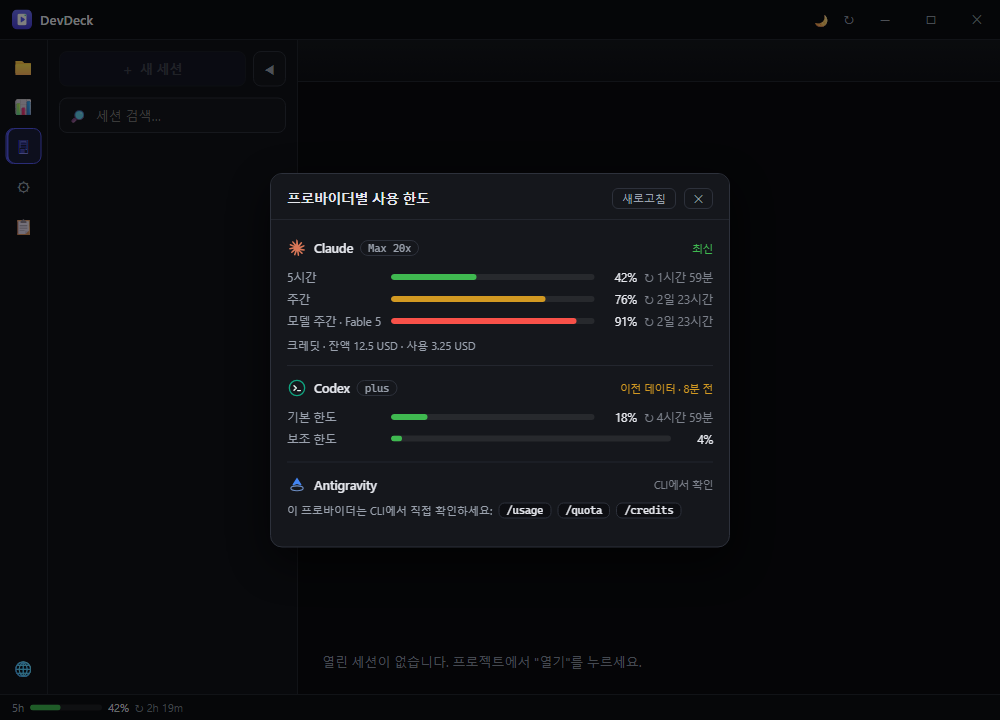
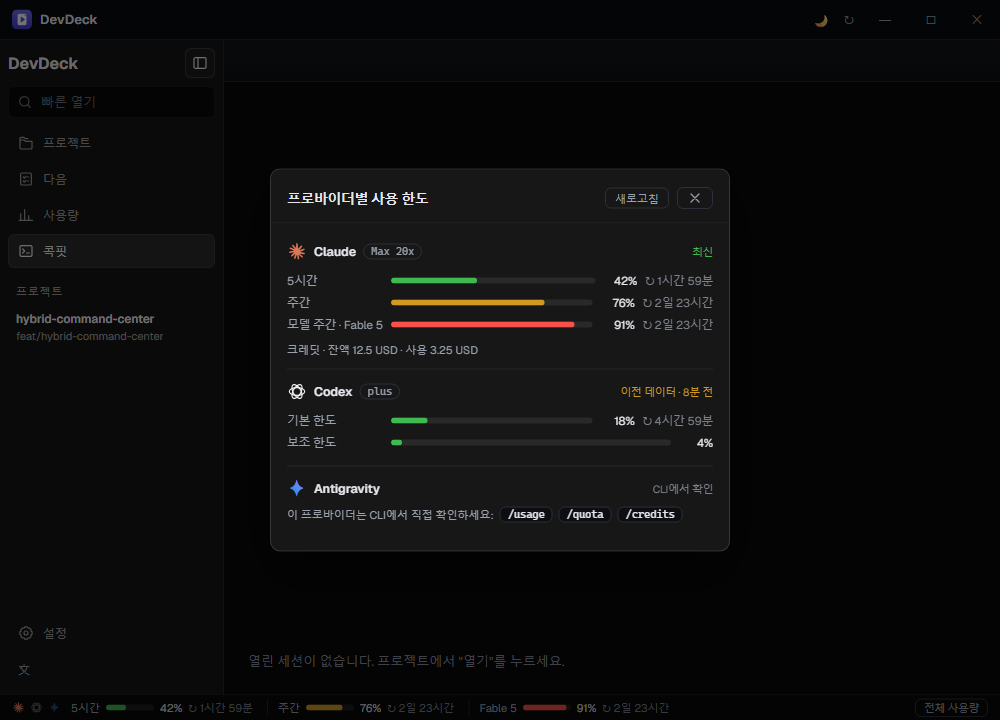
test: verify command center redesign

diff --git a/src/renderer/shell.ts b/src/renderer/shell.ts
@@ -47,6 +47,16 @@ export function mountShell(options: {
   const projectHost = document.getElementById('shell-projects')!;
   let sessions: ShellSessionInput[] = [];
   let projects: ShellProjectInput[] = [];
+  let activeEntityKey = '';
+
+  const markActiveEntity = (row: HTMLButtonElement, key: string): void => {
+    activeEntityKey = key;
+    for (const item of Array.from(sidebar.querySelectorAll<HTMLButtonElement>('.shell-entity'))) {
+      const active = item === row;
+      item.classList.toggle('selected', active);
+      if (active) item.setAttribute('aria-current', 'true'); else item.removeAttribute('aria-current');
+    }
+  };
 
   for (const button of Array.from(document.querySelectorAll<HTMLButtonElement>('.rail-item[data-view]'))) {
     const view = button.dataset.view as ViewId;
@@ -71,12 +81,15 @@ export function mountShell(options: {
       section.appendChild(heading);
       for (const item of group.items) {
         const row = document.createElement('button'); row.type = 'button'; row.className = `shell-entity shell-session activity-${item.activity}`;
+        const key = `session:${item.id}`;
         const signal = document.createElement('span'); signal.className = 'shell-signal'; signal.setAttribute('aria-hidden', 'true');
         const copy = document.createElement('span'); copy.className = 'shell-entity-copy';
         const label = document.createElement('strong'); label.textContent = item.label;
         const detail = document.createElement('small'); detail.textContent = item.detail;
         copy.append(label, detail); row.append(signal, copy);
-        row.addEventListener('click', () => options.onSession(item.id));
+        row.classList.toggle('selected', activeEntityKey === key);
+        if (activeEntityKey === key) row.setAttribute('aria-current', 'true');
+        row.addEventListener('click', () => { markActiveEntity(row, key); options.onSession(item.id); });
         section.appendChild(row);
       }
       sessionHost.appendChild(section);
@@ -87,11 +100,14 @@ export function mountShell(options: {
     projectHost.replaceChildren();
     for (const item of items) {
       const row = document.createElement('button'); row.type = 'button'; row.className = 'shell-entity shell-project';
+      const key = `project:${item.path}`;
       const copy = document.createElement('span'); copy.className = 'shell-entity-copy';
       const label = document.createElement('strong'); label.textContent = item.name;
       const detail = document.createElement('small'); detail.textContent = item.branch ?? '—';
       copy.append(label, detail); row.appendChild(copy);
-      row.addEventListener('click', () => options.onProject(item.path));
+      row.classList.toggle('selected', activeEntityKey === key);
+      if (activeEntityKey === key) row.setAttribute('aria-current', 'true');
+      row.addEventListener('click', () => { markActiveEntity(row, key); options.onProject(item.path); });
       projectHost.appendChild(row);
     }
   };

diff --git a/src/renderer/main.ts b/src/renderer/main.ts
@@ -217,19 +217,44 @@ async function boot(): Promise<void> {
     },
   });
   shellController.setCockpitAvailable(cockpitOn);
+  let savedContext: unknown = null;
+  try { savedContext = JSON.parse(localStorage.getItem(SHELL_CONTEXT_KEY) ?? 'null'); } catch { localStorage.removeItem(SHELL_CONTEXT_KEY); }
+  let pendingContext: unknown = savedContext;
+  let availableProjectPaths = new Set<string>();
+  let availableSessionIds = new Set<string>();
+  const attemptContextRestore = (): void => {
+    if (pendingContext == null) return;
+    const restored = restoreShellContext(pendingContext, availableProjectPaths, availableSessionIds);
+    const requestedKind = typeof pendingContext === 'object' && pendingContext !== null && 'kind' in pendingContext
+      ? (pendingContext as { kind?: unknown }).kind : null;
+    if (requestedKind === 'project' && restored.kind === 'project') {
+      nav.show('projects'); focusProject(restored.path);
+      localStorage.setItem(SHELL_CONTEXT_KEY, JSON.stringify(restored)); pendingContext = null;
+    } else if (requestedKind === 'session' && restored.kind === 'session' && cockpitOn) {
+      nav.show('cockpit'); activateCockpitSession(restored.id);
+      localStorage.setItem(SHELL_CONTEXT_KEY, JSON.stringify(restored)); pendingContext = null;
+    } else if (requestedKind === 'view' && restored.kind === 'view') {
+      nav.show(restored.id); pendingContext = null;
+    } else if (requestedKind === 'session' && !cockpitOn) {
+      nav.show('projects'); pendingContext = null;
+    }
+  };
   if (cockpitOn) {
-    onCockpitNavigationChange((items) => shellController?.setSessionGroups([...items]));
+    onCockpitNavigationChange((items) => {
+      shellController?.setSessionGroups([...items]);
+      availableSessionIds = new Set(items.map((item) => item.id));
+      attemptContextRestore();
+    });
     shellController.setSessionGroups(cockpitNavigationItems());
   }
   const syncShellProjects = (items: readonly import('../shared/types').ProjectViewModel[]): void => {
     shellController?.setProjects(items.filter((item) => !item.hidden).map(({ path, name, branch }) => ({ path, name, branch })));
+    availableProjectPaths = new Set(items.map((item) => item.path));
+    attemptContextRestore();
   };
   onProjectsChanged(syncShellProjects);
   syncShellProjects(currentProjects());
-  let saved: unknown = null;
-  try { saved = JSON.parse(localStorage.getItem(SHELL_CONTEXT_KEY) ?? 'null'); } catch { localStorage.removeItem(SHELL_CONTEXT_KEY); }
-  const restored = restoreShellContext(saved, new Set(), new Set());
-  if (restored.kind === 'view') nav.show(restored.id);
+  attemptContextRestore();
 
   const agentSel = document.getElementById('agent-select') as HTMLSelectElement;
   if (agents.length > 1) {

diff --git a/src/renderer/styles.css b/src/renderer/styles.css
@@ -44,11 +44,6 @@ body {
 .winbtn-close:hover { background: var(--bad); color: #fff; }
 
 #shell { display: flex; flex: 1; min-height: 0; }
-#rail { width: 48px; flex: 0 0 48px; display: flex; flex-direction: column; align-items: center; gap: 4px; padding: 8px 0; background: #101218; border-right: 1px solid var(--border); }
-.rail-item { width: 36px; height: 36px; display: flex; align-items: center; justify-content: center; background: transparent; border: 1px solid transparent; border-radius: 8px; font-size: 16px; color: var(--text-dim); cursor: pointer; }
-.rail-item:hover { background: var(--surface-hover); color: var(--text); }
-.rail-item.active { background: #1b1e3a; border-color: var(--accent); color: var(--accent-hover); box-shadow: inset 2px 0 0 var(--accent); }
-.rail-spacer { flex: 1; }
 
 #content { flex: 1; overflow-y: auto; }
 .view { display: none; }

diff --git a/src/renderer/shell/shell.css b/src/renderer/shell/shell.css
@@ -42,6 +42,7 @@
 }
 .shell-entity { padding: 7px 8px; }
 .shell-entity:hover, .shell-quick-result:hover { background: var(--dd-surface-raised); }
+.shell-entity.selected { background: var(--dd-surface-selected); box-shadow: inset 2px 0 0 var(--dd-working); }
 .shell-entity-copy { min-width: 0; display: flex; flex-direction: column; gap: 2px; }
 .shell-entity-copy strong, .shell-entity-copy small { overflow: hidden; text-overflow: ellipsis; white-space: nowrap; }
 .shell-entity-copy strong { font-weight: 550; }

diff --git a/src/renderer/features/projects/projects.css b/src/renderer/features/projects/projects.css
@@ -77,7 +77,7 @@
   gap: 6px;
 }
 
-@media (max-width: 980px) {
+@media (max-width: 1200px) {
   #view-projects .prow {
     grid-template-columns: 20px 10px minmax(130px, .8fr) minmax(180px, 1.3fr) auto;
   }

diff --git a/README.md b/README.md
@@ -4,84 +4,83 @@
 
 # DevDeck
 
-**A command deck for everyone juggling a pile of Claude Code, Codex & Antigravity projects.**
+**A local-first command center for Claude Code, Codex, and Antigravity projects.**
 
-See every repo's state at a glance — git status, how long it's been neglected, your Claude Code, Codex, and Antigravity session history — and jump back in with one click (`claude -c` / `codex resume --last` / `agy -c`).
+See every repository, live agent session, next task, local usage estimate, and resume cue in one stable workspace.
 
 ![License](https://img.shields.io/badge/license-MIT-blue)
 ![Platform](https://img.shields.io/badge/platform-Windows%20%7C%20macOS%20%7C%20Linux-0078D6)
 ![Built with Electron](https://img.shields.io/badge/Electron-43-47848F)
-![Tests](https://img.shields.io/badge/tests-847%20passing-3fb950)
+![Tests](https://img.shields.io/badge/tests-857%20passing-3fb950)
 ![CI](https://github.com/writingdeveloper/devdeck/actions/workflows/ci.yml/badge.svg)
-
-<img src="docs/demo/demo.gif" width="820" alt="DevDeck demo" />
 
 </div>
 
-## Why
+## What DevDeck solves
 
-If you run Claude Code across a dozen side projects, you lose the thread: *Which repos have uncommitted work? Which have I not touched in weeks? What was I even doing in that one?* DevDeck is a always-on desktop deck that answers those at a glance and gets you back into a session in one click — without touching your code or files.
+AI coding work gets fragmented quickly: one repository is waiting for a response, another has uncommitted work, and a third has a conversation you meant to resume. DevDeck keeps those contexts together without uploading your project or transcript data.
 
-## Features
+The interface is organized as one command center:
 
-- **🗂 Project deck** — every git repo under your scan locations as a card: branch, uncommitted count, last commit, AI session count.
-- **➕ New project** — spin up a project without leaving the deck: pick a scan location, name it, and DevDeck creates the folder, runs `git init`, and opens it in a terminal with your active agent.
-- **🤖 Multi-agent (Claude Code, Codex & Antigravity)** — every project and task has a provider-aware split **Open** control. The primary action uses the selected AI: it focuses that AI's live session, continues its latest conversation, or starts one when no history exists. Open the adjacent menu to choose another installed AI, or use its **+ New session** action to always start a separate conversation. A toolbar switcher sets the default AI.
-- **📂 Multiple scan locations** — point DevDeck at several folders to scan for repos, or add individual repos that live anywhere; each is auto-detected.
-- **🚦 Staleness traffic-light** — fresh / warning / neglected, so dirty or abandoned repos surface themselves.
-- **📡 Status pulse** — the toolbar shows live ⚠ needs-you / ◉ working counts across every open cockpit session, plus today's estimated cost; click a count to filter the deck down to just those projects.
-- **▶ Predictable resume** — generic project and task actions always honor the AI you choose (`claude -c` / `codex resume --last` / `agy -c`); they never redirect to whichever provider happened to open the project before. A specific historical conversation remains pinned to its original provider so it can be resumed safely.
-- **🖥 Cockpit (embedded terminals · Windows)** — on Windows, **Open** drops you straight into an in-app terminal instead of a pile of external windows. A searchable sidebar is **grouped by urgency** — needing-you and working sessions float above a dedicated **📌 pinned** group, with quieter turn/idle sessions below — and carries a count badge on the 🖥 icon (and an optional **tray icon alert**, off-by-default-able) so you can see "who's waiting on me" from any view. Each session shows its **model, active working time, and a per-session 🧠 context % that colors up as it nears the limit** — for Codex sessions the model and the model's *real* context window are read straight from the rollout, so the percentage is exact rather than measured against a setting — and you can **name** sessions, **pin** the ones you care about most, and run **several per repo**. Every row also carries a **💬 one-line summary of what that session is actually working on**, re-derived from its transcript each time the agent finishes a turn — its in-progress task, the headline of the last reply, or the files it just edited — so a session you have had open for days stays labeled without renaming it by hand. It works for **Claude Code and Codex** sessions alike (Codex rollouts are read from a bounded tail, so even a multi-GB one costs milliseconds). Prefer a real summary? Turn on **AI refinement** in Settings and each finished turn is condensed by **that session's own agent CLI** — a Claude session by `claude`, a Codex session by `codex` — so one vendor's quota is never spent on another's work, and the feature works whichever agent you installed (off by default, since it does spend usage). Each row carries its **provider mark** (Claude / Codex / Antigravity) in a fixed column and clamps long names (one line while the summary is shown) with the full name on hover or keyboard focus, so the 250px sidebar never has to grow. A session always **restores, restarts, and forks under the provider it was opened with**, whatever the global agent selection is now. The live agent terminal + branch · agent status bar fill the right, with selection **copy (Ctrl+C) / paste (Ctrl+V)** that doesn't clash with the agent's own Ctrl+C interrupt, and clicking an **image path printed in the output** (a screenshot a test just wrote, say) opens it straight in your OS viewer. Running 10+ projects no longer means a wall of shrinking tabs you have to click through to see which finished. Your open sessions are **remembered across restarts** — after a quit or crash the cockpit lists them as one-click **restorable** entries (re-attaching each to its own conversation, pins included). You can run **several sessions in the same repo at once** — a **+ New session** button forks another conversation; each is tracked separately and you can **name it** (double-click the name) so you remember what each one is doing. (macOS/Linux keep opening your external terminal.)
-- **↩ Resume cue** — auto-reads the *last thing you asked* in each project's newest session (Claude Code, Codex, or Antigravity) and shows it in the note slot, so "where was I?" needs no typing. Click to adopt it as your note.
-- **◷ Project Memory + resume snapshot** — open Memory from any project card or compact row to reconstruct where you stopped: the newest provider-owned conversation point, current branch/working tree, recent commits, next tasks, and project note appear above one bounded timeline of Claude, Codex, Antigravity, Git, task, and recent-open activity. It is calculated only when requested from local files, makes no AI or network call, and leaves the normal one-click **Open** path unchanged.
-- **☑ Per-project tasks + deadlines** — every project holds its own checklist with optional due dates; deck cards show a compact `☑ done/total` badge (with an overdue count in red) that jumps straight to the board.
-- **📋 "Next" task board** — all open tasks across every project on one board, grouped **overdue / today / this week / later / no date**: check them off, edit inline, set due dates, or add a task to any project without leaving the view. Switch to a **calendar view** to see due dates laid out across the month.
-- **↑ Unpushed signal** — commits ahead of your remote, flagged on the card so unprotected work stands out.
-- **{ } Open in editor** (VS Code) and **📁 open folder** straight from a card; the deck **auto-refreshes in place** while it's open — only the cards that changed update, so there's no flicker as you work.
-- **🐙 Jump to GitHub** — projects with a `github.com` remote show a GitHub icon; click it to open the repo page in your browser.
-- **📝 Per-project notes** — jot your next todo; it sticks with the card.
-- **📊 Claude Code + Codex local analytics** — one page shows **combined, Claude, and Codex API-equivalent estimated costs** side by side, then lets you filter token, model, daily, and per-project details by provider. History is parsed locally from `~/.claude` and `~/.codex`; searches and deleted-project totals remain available. These public-rate estimates are not subscription bills. Antigravity is excluded from local cost analytics because it does not expose stable local model/token cost data.
-- **📉 Live limits, all providers** — a one-line footer shows the single most urgent limit across every installed provider; **All usage** opens a dialog with each provider's own windows. **Claude Code:** 5-hour, weekly, any **model-scoped weekly quota** the API reports (rendered from the server's own model name — nothing is hardcoded), plan, and **Usage Credits** when present. **Codex:** primary/secondary rate-limit windows read through the installed official `codex app-server` (it owns its own auth; DevDeck never reads or exports Codex credentials). **Antigravity:** no supported programmatic quota read exists, so DevDeck shows the documented `/usage`, `/quota`, and `/credits` commands with a copy button instead of guessing. A provider that fails keeps its last-good numbers, labelled how old they are, and never blanks the others.
-- **📌 Pin / 🙈 hide / 🔎 search / sort** — keep the deck focused.
-- **☰ Card / list view** — toggle a dense list view — a compact status-board grid, one row per project — to scan many repos at a glance; your choice is remembered.
-- **🌐 4 languages** — English, 한국어, 日本語, 中文.
-- **⬆ Auto-update** — checks GitHub Releases on launch and offers an in-app, user-confirmed download + restart (Windows/Linux; macOS pending code-signing).
-- **🚀 Start on Windows login** — optionally launch DevDeck when you sign in (Windows only; opt-in in Settings).
-- **🔒 Local-first** — reads your local agent data and git, and the renderer sends nothing anywhere (`connect-src 'none'`). Outbound calls only ever go to first-party endpoints: the GitHub update check, and — when you're signed into Claude Code — a usage check to `api.anthropic.com` (the same endpoint Claude Code itself uses). Codex limits come from the locally installed official `codex app-server`, which performs its own first-party request; Antigravity makes **no** usage request at all. Credentials never cross IPC — the Claude OAuth token stays in the main process, Codex credentials are never read by DevDeck, and only normalized plan/percent/reset/state values reach the UI. If you're not signed in, no usage call is made. No account, no telemetry.
-- System tray + global shortcut (`Ctrl+Alt+D`), frameless Discord-style title bar.
+- An expanded 224px sidebar contains Quick Open, primary views, urgency-grouped live sessions, and compact projects.
+- The sidebar collapses to 52px when terminal width matters.
+- The main project overview defaults to a row-first status board; cards remain optional.
+- Selecting a session focuses its existing embedded terminal without respawning or remounting it.
+- Project Memory opens as a right-side drawer, or a full-width sheet on narrow windows.
+
+<div align="center">
+<img src="docs/screenshots/projects.png" width="820" alt="DevDeck row-first project command center" />
+</div>
+
+## Highlights
+
+- **Unified project and session navigation** — Needs You and Working sessions stay visible from Projects, Tasks, Usage, and Settings. Quick Open filters both sessions and projects.
+- **Row-first project overview** — resume cues lead each row; branch, working-tree state, providers, sessions, cost, tasks, GitHub, editor, folder, and provider-aware Open remain available.
+- **Provider-aware Open** — focus a live session, continue the correct provider-owned conversation, start a fresh session, or explicitly choose another installed provider.
+- **Cockpit on Windows** — embedded Claude Code, Codex, and Antigravity terminals with persistence, restart, fork, rename, pin, close confirmation, search, clipboard handling, clickable links and image paths, context percentage, and summaries.
+- **External terminals on macOS and Linux** — the same project actions launch supported native terminal applications.
+- **Project Memory** — an on-demand local snapshot of the latest conversation, Git state, recent commits, tasks, notes, and activity timeline. It makes no AI or network call.
+- **Cross-project Tasks** — add, edit, complete, schedule, filter, and view tasks as a list or calendar.
+- **Local usage analytics** — combined Claude Code and Codex token and API-equivalent cost estimates, provider filters, model/day/project breakdowns, and deleted-project history.
+- **Live provider limits** — a fixed 26px footer summarizes the most urgent supported limit; the dialog keeps each provider independent and preserves last-good data.
+- **Repository signals** — uncommitted files, unpushed commits, staleness, session history, resume cues, notes, pin/hide, GitHub, editor, and folder actions.
+- **Four languages** — English, 한국어, 日本語, 中文.
+- **Local-first security** — context isolation, sandboxing, strict CSP, no telemetry, and no project data sent by the renderer.
 
 <div align="center">
 <img src="docs/screenshots/tasks.png" width="600" alt="Cross-project task board" />
-<img src="docs/screenshots/usage.png" width="600" alt="Combined Claude Code and Codex local cost analytics" />
-<img src="docs/screenshots/all-provider-usage.png" width="600" alt="Live limits for every installed provider" />
+<img src="docs/screenshots/usage.png" width="600" alt="Combined Claude Code and Codex local analytics" />
 <br />
-<img src="docs/screenshots/cockpit-providers.png" width="250" alt="Cockpit sidebar: sessions grouped by urgency, each with its provider mark, model, context % and a one-line summary of what it is working on" />
+<img src="docs/screenshots/settings.png" width="600" alt="DevDeck settings" />
+<img src="docs/screenshots/all-provider-usage.png" width="600" alt="Live limits for installed providers" />
+<br />
+<img src="docs/screenshots/cockpit-providers.png" width="600" alt="Urgency-grouped sessions in the shared command-center sidebar" />
 </div>
 
 ## Install
 
-Grab the latest from [**Releases**](https://github.com/writingdeveloper/devdeck/releases/latest):
+Download the latest build from [Releases](https://github.com/writingdeveloper/devdeck/releases/latest).
 
-| OS | Download | First run (unsigned build) |
-|----|----------|----------------------------|
-| **Windows** | `DevDeck-…-Setup.exe` | SmartScreen → **More info → Run anyway** |
-| **macOS** — Apple Silicon | `DevDeck-…-arm64.dmg` | Open once → **System Settings → Privacy & Security → Open Anyway** (see below) |
-| **macOS** — Intel | `DevDeck-…-x64.dmg` | Same as above |
-| **Linux** | `DevDeck-…-x86_64.AppImage` (portable) or `…-amd64.deb` | `chmod +x` the AppImage, then run |
+| OS | Download | First run |
+|---|---|---|
+| Windows | `DevDeck-…-Setup.exe` | SmartScreen → More info → Run anyway |
+| macOS Apple Silicon | `DevDeck-…-arm64.dmg` | Privacy & Security → Open Anyway |
+| macOS Intel | `DevDeck-…-x64.dmg` | Privacy & Security → Open Anyway |
+| Linux | `…-x86_64.AppImage` or `…-amd64.deb` | `chmod +x` for AppImage |
 
-Builds are **unsigned** (no code-signing certificate yet), so the first launch needs the bypass above. Then open **Settings** and add the folders that hold your git repos — DevDeck scans nothing until you choose them; you can add several scan locations or pin individual repos.
+Builds are currently unsigned. After launch, open Settings and add scan roots or individual project folders; DevDeck scans nothing until you choose them.
 
-**macOS notes:** on macOS 15 (Sequoia) and later, right-click → Open no longer bypasses Gatekeeper for unsigned apps. Launch the app once (it will be blocked), then go to **System Settings → Privacy & Security** and click **Open Anyway** — macOS may ask you to repeat this once more. Also, the first time you open a project, macOS asks for permission to control **Terminal.app** ("DevDeck wants to control Terminal") — allow it, or opening sessions will silently do nothing. If you denied it, re-enable it under **System Settings → Privacy & Security → Automation**.
+On macOS, allow Terminal automation when prompted. On macOS 15 or later, launch once and use System Settings → Privacy & Security → Open Anyway for the unsigned build.
 
 ## Platform support
 
-| OS | Status |
-|----|--------|
-| Windows | ✅ Supported — Windows Terminal / PowerShell. Installer provided. |
-| macOS | ✅ Supported — opens Terminal.app via `osascript`. `.dmg` provided (arm64 + x64). Launcher logic + AppleScript are validated on real macOS CI runners; GUI hardware-testing & signing still pending — feedback welcome. |
-| Linux | ✅ Supported — auto-detects `gnome-terminal` / `konsole` / `alacritty` / `kitty` / `xterm` (and `x-terminal-emulator`). AppImage + `.deb` provided. |
+| OS | Project actions | Embedded Cockpit |
+|---|---|---|
+| Windows | Windows Terminal / PowerShell | Yes |
+| macOS | Terminal.app through `osascript` | No |
+| Linux | Auto-detected supported terminal | No |
 
-> Every release is built **and** unit-tested on real Windows, macOS, and Linux GitHub Actions runners; the macOS `.dmg` is produced on a genuine Mac runner.
+Every release is built and unit-tested on Windows, macOS, and Linux CI runners.
 
 ## Build from source
 
@@ -89,20 +88,37 @@ Builds are **unsigned** (no code-signing certificate yet), so the first launch n
 git clone https://github.com/writingdeveloper/devdeck.git
 cd devdeck
 npm install
-npm start          # build + launch
-npm test           # run the test suite (Vitest)
-npm run dist       # package to release/win-unpacked  (needs Windows Developer Mode for a clean run)
+npm start
+```
+
+Useful checks:
+
+```bash
+npm test
+npm run build
+npm run qa
+npm run qa:audit
 ```
 
 ## How it works
 
-DevDeck scans your configured **scan locations** for git repos (walking org/repo layouts, plus any individual repos you add), reads each repo's git state, and cross-references your AI coding sessions — Claude Code (`~/.claude/projects`), Codex (`~/.codex/sessions`), or Antigravity (`~/.gemini/antigravity`). Everything runs in the Electron main process and stays on your machine — DevDeck only *reads* your data and *launches* a terminal; it never edits your project files. New agents plug in behind one `AgentProvider` interface.
+DevDeck scans only the folders you authorize, reads Git state, and correlates local session data from:
 
-**Tech:** Electron 43 · TypeScript · esbuild · Vitest · electron-updater. Hardened renderer (context isolation, sandbox, strict CSP).
+- Claude Code: `~/.claude/projects`
+- Codex: `~/.codex/sessions`
+- Antigravity: `~/.gemini/antigravity`
+
+Project scanning, transcript parsing, Git calls, terminal processes, and provider usage checks stay in the Electron main process. The sandboxed renderer receives normalized view models through guarded IPC. New agents plug in behind the existing provider interface.
+
+Outbound traffic is limited to first-party update or supported usage endpoints. DevDeck has no account system and no telemetry. Codex credentials are never read by DevDeck; its official app server owns its authentication.
+
+## Tech
+
+Electron 43 · TypeScript · esbuild · Vitest · Playwright · axe-core · electron-updater
 
 ## Contributing
 
-Issues and PRs welcome — especially **code-signing** (Windows/macOS), the top roadmap item: it removes the SmartScreen/Gatekeeper friction and unlocks macOS auto-update. This is an early project; expect rough edges.
+Issues and pull requests are welcome. Code signing for Windows and macOS remains a priority because it removes first-run security friction and enables a smoother release path.
 
 ## License
 
